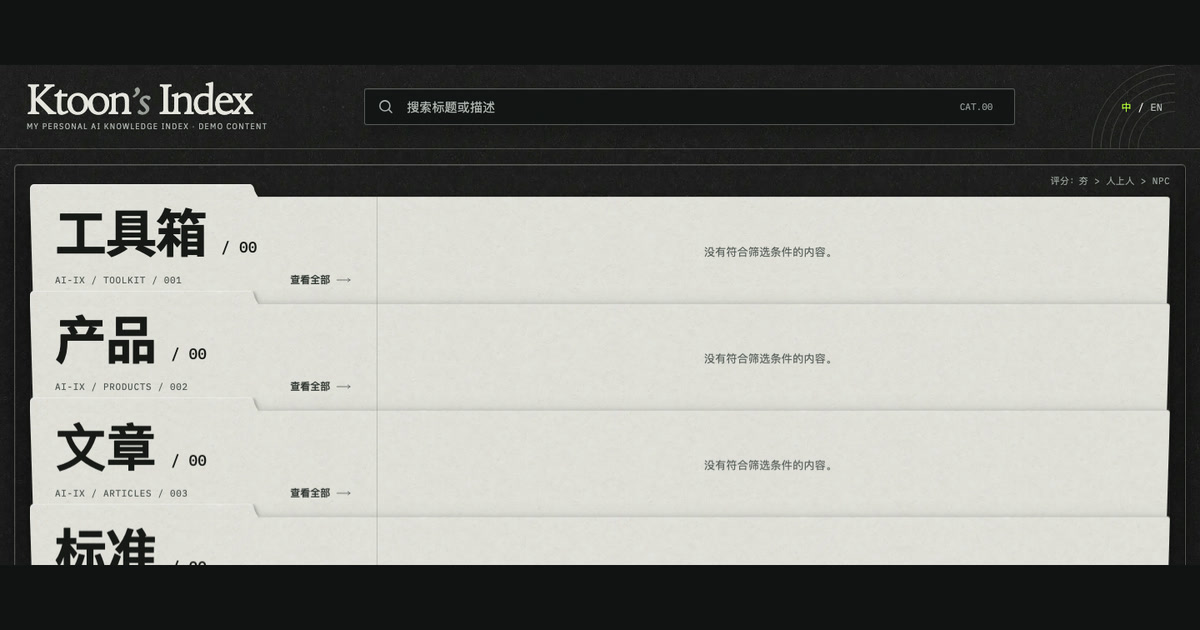
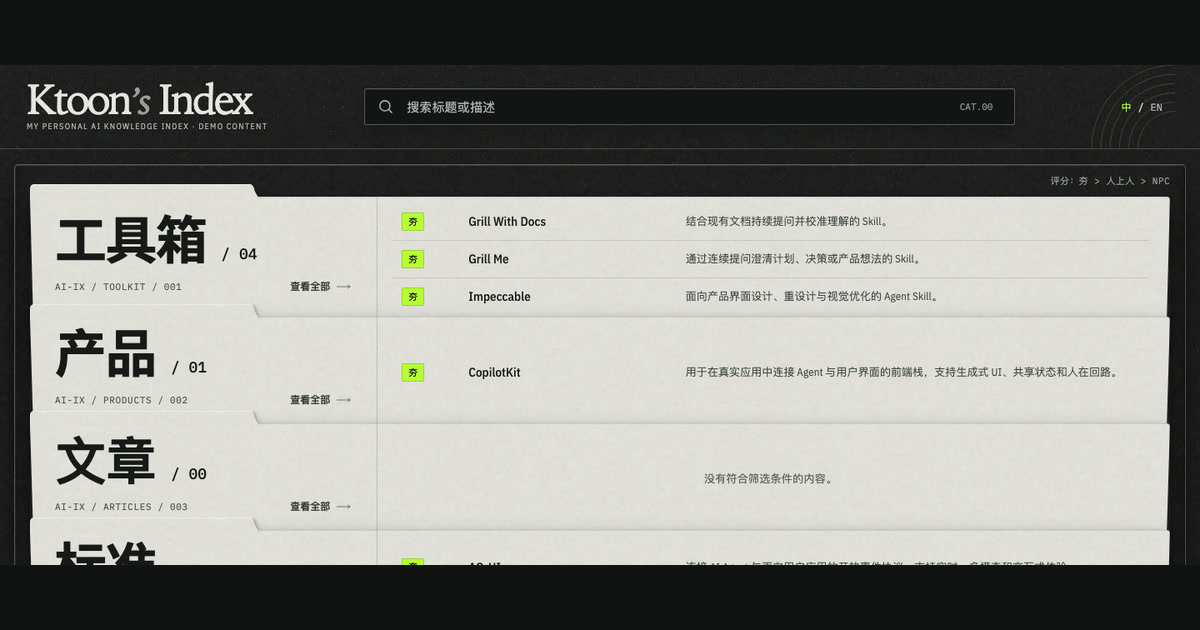
chore: publish curated index entries

diff --git a/tests/generated-content.test.ts b/tests/generated-content.test.ts
@@ -3,7 +3,7 @@ import { existsSync, readdirSync, readFileSync } from "node:fs";
 
 import { describe, expect, it } from "vitest";
 
-import { parseEntry, transitionEntryStatus } from "../src/content/index.ts";
+import { createEntry, parseEntry, transitionEntryStatus } from "../src/content/index.ts";
 import {
   buildContent,
   projectContent,
@@ -69,7 +69,15 @@ describe("M4 全量 Markdown 公开读模型", () => {
   });
 
   it("合成 published 条目仍生成首页链接与白名单详情", () => {
-    const published = ensurePublished(readEntries()[0]);
+    const published = createEntry(
+      {
+        id: "empty-optionals-fixture",
+        title: "Empty optionals fixture",
+        summary: "Verifies the public projection without optional fields.",
+        category: "toolkit",
+      },
+      new Date("2098-12-31T00:00:00.000Z"),
+    );
     const projected = projectContent([published]);
     const visibleEntries = projected.categories.flatMap((category) => category.entries);
 

diff --git a/tests/discoverability-contract.test.ts b/tests/discoverability-contract.test.ts
@@ -89,7 +89,7 @@ describe("M9 公开站可发现性契约", () => {
     const shareImage = readFileSync(new URL("../public/share-image.jpg", import.meta.url));
     expect(jpegDimensions(shareImage)).toEqual({ width: 1200, height: 630 });
     expect(createHash("sha256").update(shareImage).digest("hex")).toBe(
[2 lines of base64/hex data omitted]
     );
   });
 
